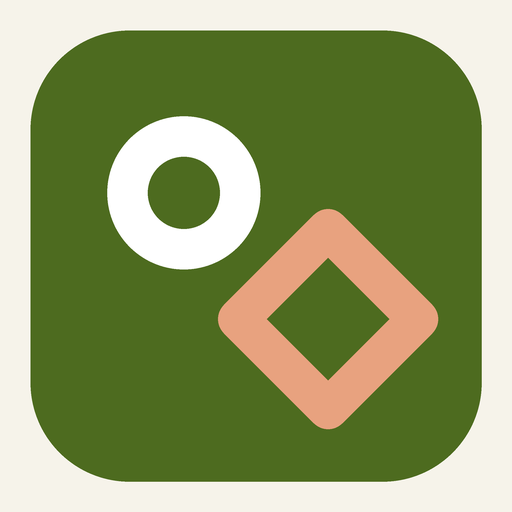
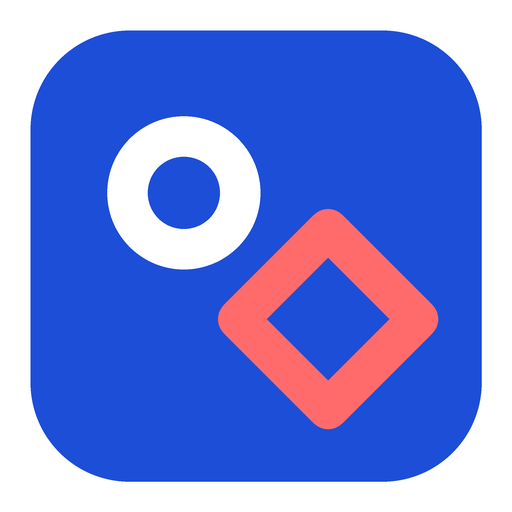
Kingdom Squares: blue and red colorway on white

diff --git a/src/games/squares/theme.css b/src/games/squares/theme.css
@@ -6,28 +6,32 @@
  * Kingdom Squares' colorway. Every color the game uses is one of these variables,
  * so a different colorway is a change to this block only.
  *
- * Option A, Olive Grove: warm parchment ground, olive green for main actions and
- * team 1, clay for team 2. Team 1 plays a ring and team 2 a diamond, so the teams
- * differ by shape as well as color.
+ * Blue and red on white: white ground, royal blue for main actions and team 1,
+ * red for team 2 and for False. Team 1 plays a ring and team 2 a diamond, so the
+ * teams differ by shape as well as color.
  */
 :root {
   color-scheme: light;
-  --ks-ground: #f6f3ea;
+  --ks-ground: #ffffff;
   --ks-panel: #ffffff;
-  --ks-sunk: #efeadc;
-  --ks-line: #dcd5c2;
-  --ks-soft: #e6ebd8;
-  --ks-soft-line: #bcc79d;
-  --ks-soft-text: #5c6b3a;
-  --ks-text: #26301a;
-  --ks-muted: #56623f;
-  --ks-accent: #4d6b1f;
-  --ks-accent-hover: #3f5918;
+  --ks-sunk: #f1f4fa;
+  --ks-line: #dde3ef;
+  --ks-soft: #eef3ff;
+  --ks-soft-line: #c3d2f3;
+  --ks-soft-text: #1e3a8a;
+  --ks-text: #0f1b3d;
+  --ks-muted: #4a5878;
+  --ks-accent: #1d4ed8;
+  --ks-accent-hover: #1e40af;
   --ks-on-accent: #ffffff;
-  --ks-alert: #9a3412;
-  --ks-team-0: #4d6b1f;
+  --ks-red: #dc2626;
+  --ks-red-hover: #b91c1c;
+  --ks-alert: #b91c1c;
+  --ks-card: #0f2a6b;
+  --ks-on-card: #ffffff;
+  --ks-team-0: #1d4ed8;
   --ks-on-team-0: #ffffff;
-  --ks-team-1: #b4532a;
+  --ks-team-1: #dc2626;
   --ks-on-team-1: #ffffff;
   --ks-radius: 16px;
   --ks-font: 'Lexend Variable', Lexend, system-ui, sans-serif;
@@ -88,6 +92,13 @@
     color: var(--ks-accent);
     background-color: transparent;
   }
+  .ks-btn-red {
+    background-color: var(--ks-red);
+    color: #ffffff;
+  }
+  .ks-btn-red:not(:disabled):hover {
+    background-color: var(--ks-red-hover);
+  }
   .ks-btn-danger {
     border: 2px solid var(--ks-alert);
     color: var(--ks-alert);
@@ -142,8 +153,8 @@
       0 0 0 9px var(--ks-accent);
   }
   .ks-card {
-    background-color: var(--ks-accent);
-    color: var(--ks-on-accent);
+    background-color: var(--ks-card);
+    color: var(--ks-on-card);
   }
 }
 

diff --git a/src/games/squares/screens/PhoneScreens.tsx b/src/games/squares/screens/PhoneScreens.tsx
@@ -179,7 +179,7 @@ export function TeamPhoneScreen() {
         </button>
         <button
           type="button"
-          className={`flex items-center justify-center gap-3 rounded-[2rem] text-[clamp(2.2rem,12vw,5rem)] font-extrabold transition-transform active:scale-[0.98] ${live || sent === false ? 'border-4 border-ks-accent bg-ks-panel text-ks-accent' : 'bg-ks-sunk text-ks-muted'}`}
+          className={`flex items-center justify-center gap-3 rounded-[2rem] text-[clamp(2.2rem,12vw,5rem)] font-extrabold transition-transform active:scale-[0.98] ${live || sent === false ? 'ks-btn-red' : 'bg-ks-sunk text-ks-muted'}`}
           disabled={!live}
           onClick={() => call(false)}
         >

diff --git a/src/games/squares/screens/HostScreen.tsx b/src/games/squares/screens/HostScreen.tsx
@@ -98,7 +98,7 @@ export function HostScreen() {
               <Check aria-hidden className="h-7 w-7" />
               {t('True')}
             </button>
-            <button type="button" className="ks-btn ks-btn-xl ks-btn-outline" onClick={() => dispatchGame({ type: 'ANSWER', team: state.turn, answer: false })}>
+            <button type="button" className="ks-btn ks-btn-xl ks-btn-red" onClick={() => dispatchGame({ type: 'ANSWER', team: state.turn, answer: false })}>
               <X aria-hidden className="h-7 w-7" />
               {t('False')}
             </button>

diff --git a/src/games/squares/components/RemotePanel.tsx b/src/games/squares/components/RemotePanel.tsx
@@ -10,7 +10,7 @@ function QrCode({ text, label }: { text: string; label: string }) {
   useEffect(() => {
     let alive = true;
     import('qrcode')
-      .then((QR) => QR.toString(text, { type: 'svg', margin: 1, errorCorrectionLevel: 'M', color: { dark: '#26301A', light: '#FFFFFF' } }))
+      .then((QR) => QR.toString(text, { type: 'svg', margin: 1, errorCorrectionLevel: 'M', color: { dark: '#0F1B3D', light: '#FFFFFF' } }))
       .then((markup) => alive && setSvg(markup))
       .catch(() => alive && setSvg(null));
     return () => {

diff --git a/src/games/squares/components/parts.tsx b/src/games/squares/components/parts.tsx
@@ -7,7 +7,7 @@ export const TEAMS: readonly TeamIndex[] = [0, 1];
 export function Wordmark({ className = '' }: { className?: string }) {
   return (
     <span className={`font-extrabold leading-none tracking-tight text-ks-text ${className}`}>
-      Kingdom <span className="text-ks-accent">Squares</span>
+      <span className="text-ks-accent">Kingdom</span> <span className="text-ks-red">Squares</span>
     </span>
   );
 }

diff --git a/titles.config.ts b/titles.config.ts
@@ -49,8 +49,8 @@ export const TITLES: Record<string, TitleInfo> = {
     description: 'A Bible true-or-false squares game for two teams, designed for family worship.',
     storagePrefix: 'kingdom-squares:',
     peerPrefix: 'kingdom-squares-v1-',
-    themeColor: '#4D6B1F',
-    backgroundColor: '#F6F3EA',
+    themeColor: '#1D4ED8',
+    backgroundColor: '#FFFFFF',
   },
 };
 

diff --git a/src/games/squares/head.html b/src/games/squares/head.html
@@ -1,3 +1,3 @@
-    <meta name="theme-color" content="#4D6B1F" />
+    <meta name="theme-color" content="#1D4ED8" />
     <meta name="description" content="A Bible true-or-false squares game for two teams, made for family worship. Pick a square, call the statement true or false, and get three in a row." />
     <title>Kingdom Squares</title>

diff --git a/tailwind.config.js b/tailwind.config.js
@@ -60,6 +60,7 @@ export default {
           accent: 'var(--ks-accent)',
           'on-accent': 'var(--ks-on-accent)',
           alert: 'var(--ks-alert)',
+          red: 'var(--ks-red)',
         },
       },
       fontFamily: {
